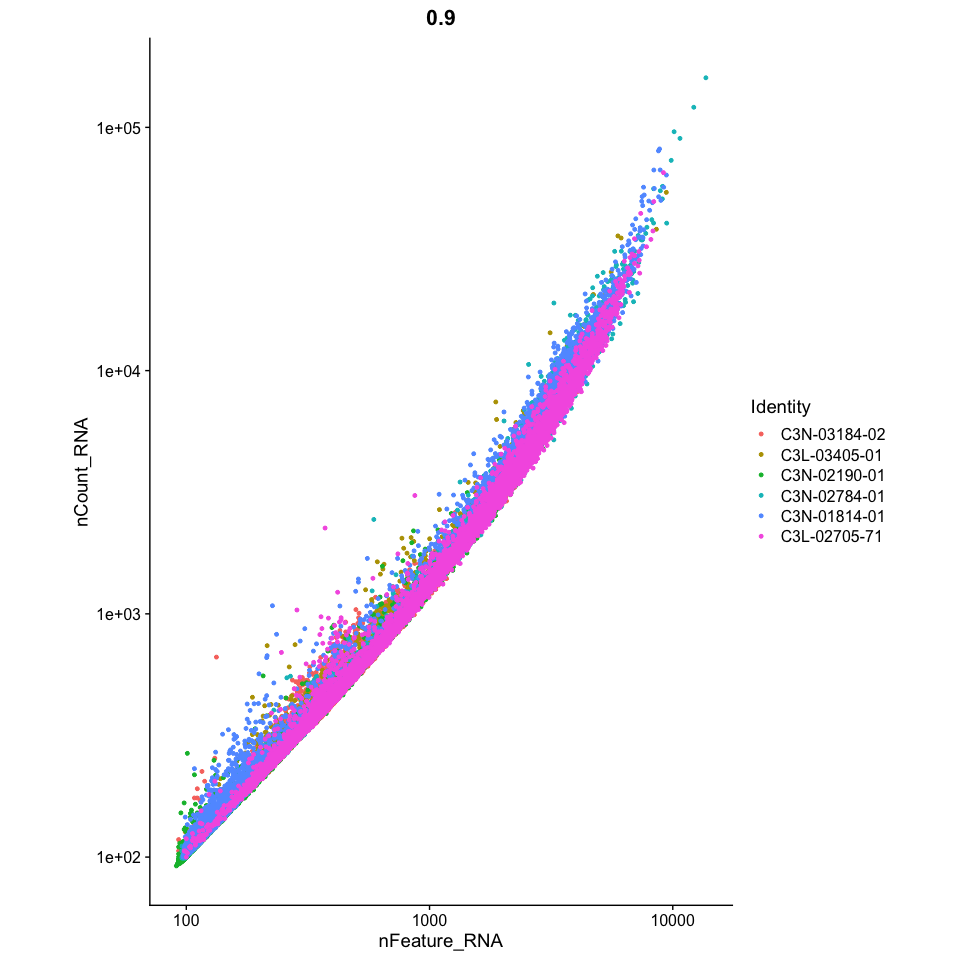
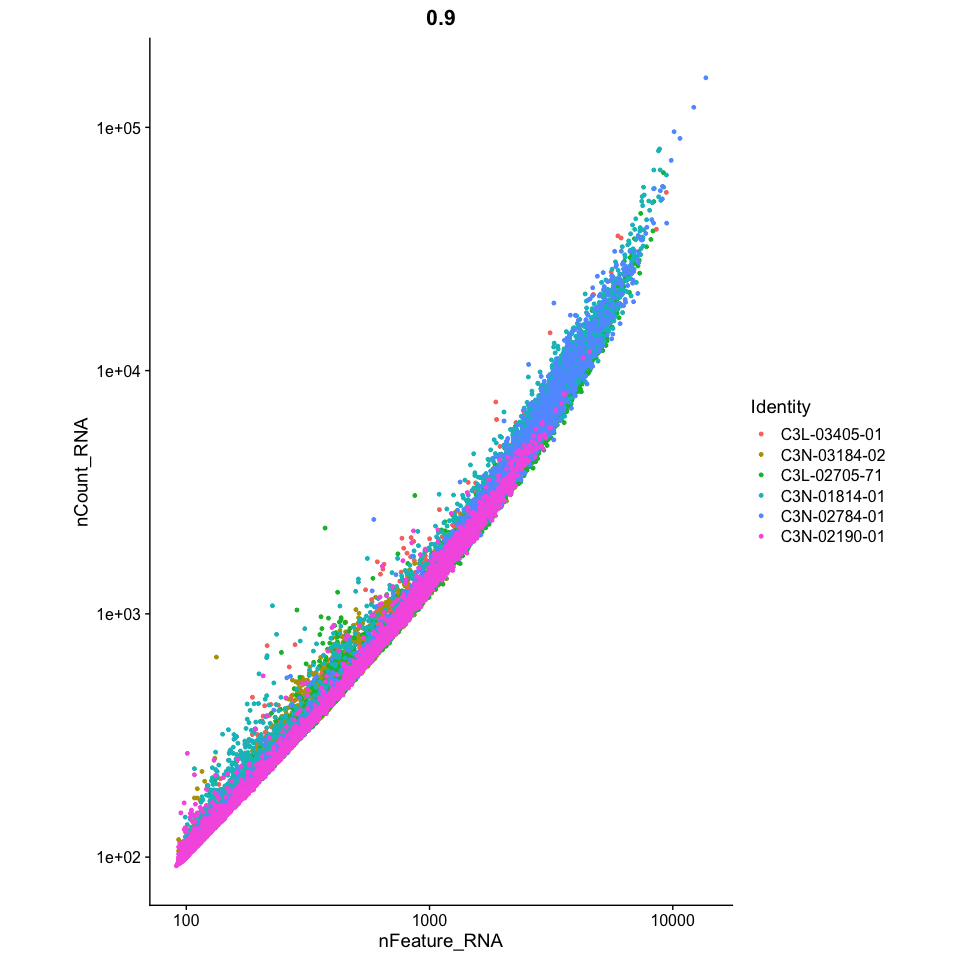
Fix sort ordering issue with Sample IDs

Changed region(s): [[0.1562, 0.1875, 0.6875, 0.9062], [0.8438, 0.4375, 0.9375, 0.5625]]

diff --git a/scRNA_TCGA_brain_gliomas_Seurat/scRNA_TCGA_brain_gliomas_Seurat.md b/scRNA_TCGA_brain_gliomas_Seurat/scRNA_TCGA_brain_gliomas_Seurat.md
@@ -51,7 +51,9 @@ smp_subset <- c('C3L-03405-01', 'C3N-03184-02', 'C3L-02705-71', 'C3N-01814-01',
                 'C3N-02784-01', 'C3N-02190-01')
 smpsht <- read_delim(sample_sheet, delim='\t',
                      show_col_types=FALSE) %>%
-          filter(`Sample ID` %in% smp_subset)
+          filter(`Sample ID` %in% smp_subset) %>%
+          mutate(`Sample ID`=factor(`Sample ID`, levels=smp_subset)) %>%
+          arrange(`Sample ID`)
 ```
 
 ## Step 2: Read Sample Files Into A List of Seurat Objects
@@ -130,9 +132,9 @@ VlnPlot(mrgobj, features=c("percent.mt"), alpha=0.02, layer="counts",
         y.max=20)
 ```
 
-    ## Warning: Removed 925 rows containing non-finite values (`stat_ydensity()`).
+    ## Warning: Removed 926 rows containing non-finite values (`stat_ydensity()`).
 
-    ## Warning: Removed 925 rows containing missing values (`geom_point()`).
+    ## Warning: Removed 926 rows containing missing values (`geom_point()`).
 
 ![](scRNA_TCGA_brain_gliomas_Seurat_files/figure-gfm/unnamed-chunk-4-1.png)<!-- -->
 
@@ -149,7 +151,9 @@ cutoffs rather loosely.
 
 ``` r
 # Grab the metadata data frame
-df <- mrgobj@meta.data
+df <- mrgobj@meta.data %>%
+      mutate(Sample_ID=factor(Sample_ID, levels=smp_subset)) %>%
+             arrange(Sample_ID)
 plt <- list()
 plt[["ncount"]] <- ggplot(data=df, aes(x=nCount_RNA)) +
                    geom_histogram(boundary=0, binwidth=20) +
@@ -176,6 +180,7 @@ print(cwplt)
 ```
 
 ![](scRNA_TCGA_brain_gliomas_Seurat_files/figure-gfm/unnamed-chunk-5-1.png)<!-- -->
+
 One thing that immediately stands out about the above data is that the
 typical number of transcript counts (left column) across all six samples
 is usually only slightly larger than the number of features with
@@ -243,11 +248,12 @@ top10 <- HVFInfo(mrgobj, status=TRUE) %>%
          filter(variable==TRUE & rank<=10) %>%
          rownames()
 pltfeatvar <- VariableFeaturePlot(mrgobj) %>%
-              LabelPoints(points=top10, repel=TRUE, xnudge=0, ynudge=0)
+              LabelPoints(points=top10, repel=TRUE, xnudge=0, ynudge=0) %>%
+              suppressMessages()
 print(pltfeatvar)
 ```
 
-    ## Warning: Removed 5442 rows containing missing values (`geom_point()`).
+    ## Warning: Removed 5644 rows containing missing values (`geom_point()`).
 
 ![](scRNA_TCGA_brain_gliomas_Seurat_files/figure-gfm/unnamed-chunk-8-1.png)<!-- -->
 
